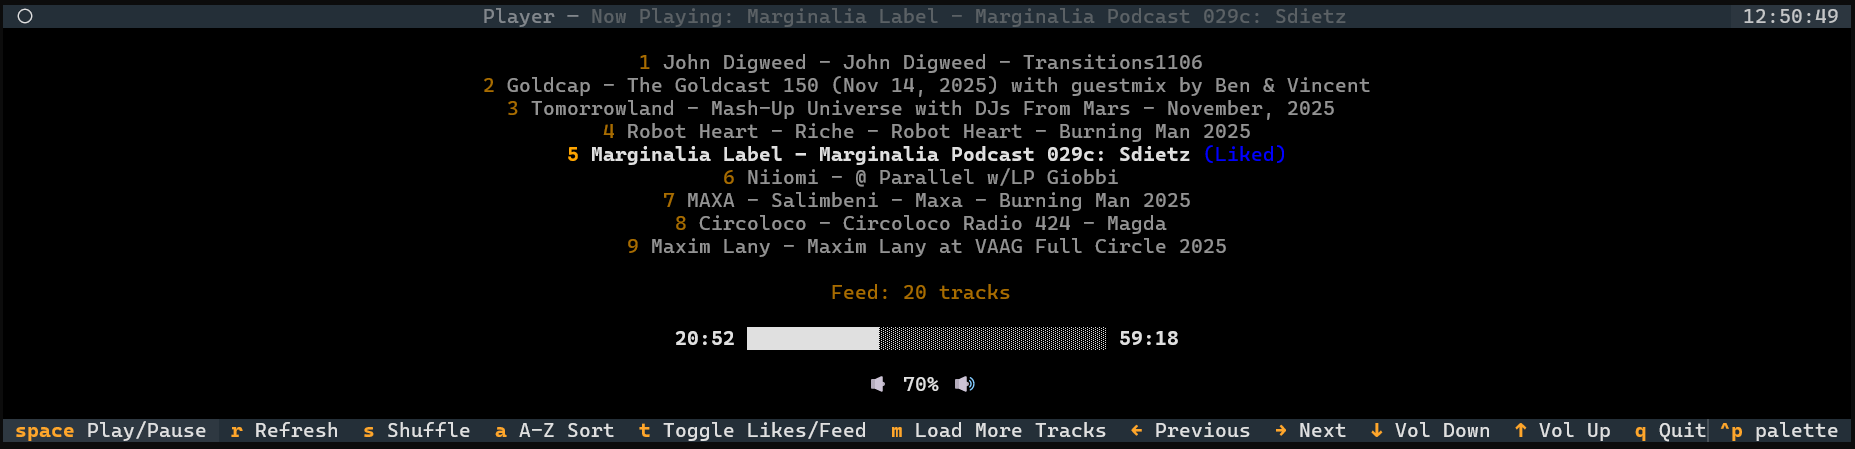
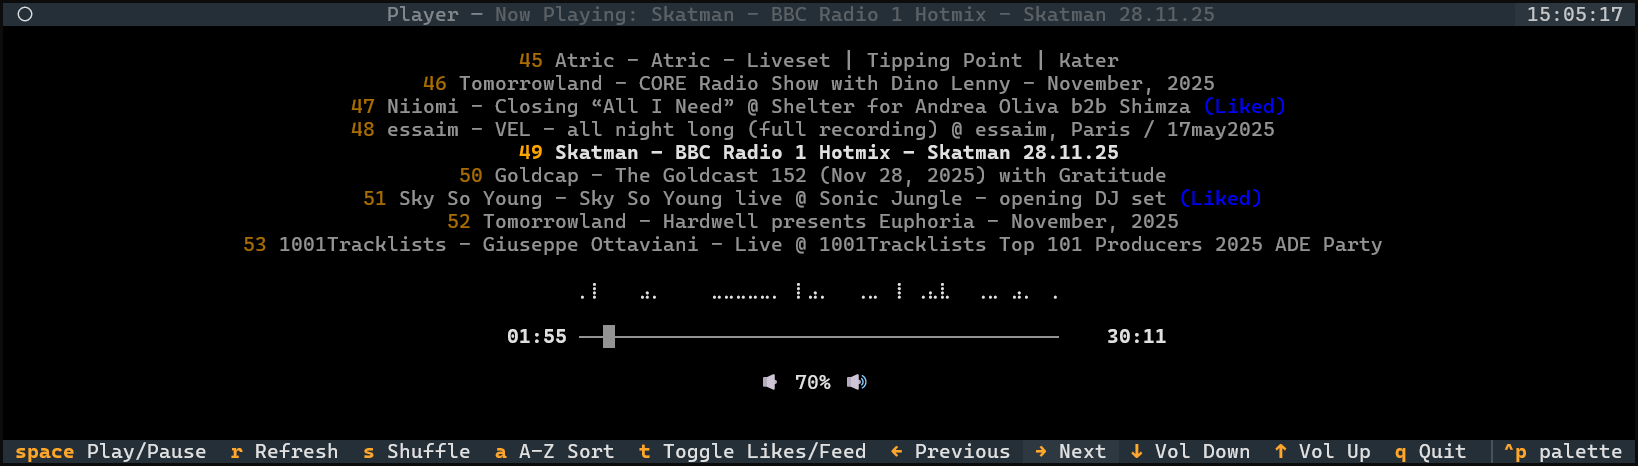
feat: command for organising offline library

diff --git a/src/soundcloud_player/organise.py b/src/soundcloud_player/organise.py
@@ -1,0 +1,128 @@
+import argparse
+from dataclasses import dataclass
+from pathlib import Path
+
+import yaml
+from mutagen.easyid3 import EasyID3
+from mutagen.mp3 import MP3
+from rich import print
+from rich.console import Console
+from rich.progress import (
+    BarColumn,
+    Progress,
+    TaskProgressColumn,
+    TextColumn,
+    TimeElapsedColumn,
+)
+from rich.table import Table
+from thefuzz import fuzz  # type: ignore
+from unidecode import unidecode
+
+from soundcloud_player.config_manager import ConfigManager
+from soundcloud_player.soundcloud_client import SoundCloudClient
+
+SIM_LIMIT = 90
+COLOURS = ["#D35400", "#E67E22", "#F39C12", "#F1C40F", "#2ECC71"]
+
+
+@dataclass
+class TrackGroup:
+    album: str
+    phrases: list[str]
+
+
+@dataclass
+class MatchResult:
+    phrase: str | None
+    similarity: float
+    album: str
+
+    def coloured_similarity(self) -> str:
+        diff = max(0.0, self.similarity - SIM_LIMIT)
+        max_diff = 100 - SIM_LIMIT
+        colour = COLOURS[int((diff * (len(COLOURS) - 1) / max_diff) // 1)]
+        return f"[{colour}]{self.similarity}[/{colour}]"
+
+
+def find_best_match(track: Path, all_configs: list[TrackGroup]) -> MatchResult:
+    filename = "_" + unidecode(track.name).lower() + "_"
+    all_matches = [
+        MatchResult(
+            phrase=p,
+            similarity=fuzz.partial_ratio("_" + p.replace(" ", "_") + "_", filename),
+            album=cfg.album,
+        )
+        for cfg in all_configs
+        for p in cfg.phrases
+    ]
+    all_matches = sorted(all_matches, key=lambda match: match.similarity, reverse=True)
+    best_match = all_matches[0]
+    if best_match.similarity < SIM_LIMIT:
+        return MatchResult(phrase=None, similarity=0, album="Unsorted")
+    return best_match
+
+
+def organise_library(
+    sc_client: SoundCloudClient, args: argparse.Namespace, cfg_manager: ConfigManager
+):
+    lib_path = cfg_manager.get_local_lib()
+    cfg_path = cfg_manager.get_classification_config()
+
+    # Load config
+    with open(cfg_path, "r") as cfg:
+        all_configs = [
+            TrackGroup(**item) for item in yaml.load_all(cfg, yaml.SafeLoader)
+        ]
+
+    # Find album for all tracks
+    results: dict[Path, MatchResult] = {
+        track: find_best_match(track, all_configs) for track in lib_path.rglob("*.mp3")
+    }
+
+    # Edit mp3 tags
+    prefix = args.prefix or ""
+    with Progress(
+        TextColumn("[white]{task.description}[/white]"),
+        BarColumn(),
+        TaskProgressColumn(text_format="[white]{task.percentage:>3.0f}%[/white]"),
+        TimeElapsedColumn(),
+    ) as progress:
+        task = progress.add_task("Applying mp3 tags", total=len(results))
+        for file, match in results.items():
+            mp3file = MP3(file, ID3=EasyID3)
+            mp3file["title"] = file.stem
+            mp3file["album"] = prefix + match.album
+            mp3file.save()
+            progress.update(task, advance=1)
+
+    # Reorganise folders
+    for old, match in results.items():
+        (lib_path / match.album).mkdir(exist_ok=True)
+        old.rename(lib_path / match.album / old.name)
+    for p in lib_path.iterdir():
+        if p.is_dir() and not list(p.iterdir()):
+            p.rmdir()
+            print(f"Removed {p}")
+
+    # Display match results
+    table = Table(title="Matched Tracks")
+    table.add_column("Album", no_wrap=True)
+    table.add_column("Matched Phrase", style="blue")
+    table.add_column("Similarity")
+    table.add_column("Filename")
+    rows = [
+        (match.album, match.phrase, match.coloured_similarity(), track.name)
+        for track, match in results.items()
+        if match.similarity
+    ]
+    for row in sorted(rows):
+        table.add_row(*row)
+    console = Console()
+    console.print(table)
+
+    # Display unsorted items
+    unsorted = [track.name for track, match in results.items() if not match.similarity]
+    if unsorted:
+        n_disp = min(len(unsorted), 20)
+        print(f"\nFirst {n_disp} of {len(unsorted)} unsorted tracks:")
+        print("\n".join(unsorted[:n_disp]))

diff --git a/src/soundcloud_player/config_manager.py b/src/soundcloud_player/config_manager.py
@@ -37,9 +37,10 @@ class ConfigManager:
                 return self.settings[key]
             resp = input(
                 f"Parameter '{key}' is already populated with value"
-                f" '{self.settings[key]}', do you want to overwrite it? [no]"
+                f" '{self.settings[key]}', do you want to overwrite it? Only 'yes' is"
+                " accepted [no]"
             )
-            if not resp or resp == "no":
+            if resp != "yes":
                 print(f"Leaving '{key}' untouched")
                 return self.settings[key]
         self.settings[key] = input(prompt + " ")
@@ -68,3 +69,15 @@ class ConfigManager:
             self.settings.pop(param)
             local_lib = Path(self.get(param, prompt))
         return local_lib
+
+    def get_classification_config(self) -> Path:
+        param = "classification-cfg"
+        prompt = (
+            "Please provide the location of your library classification config yml:"
+        )
+        class_cfg = Path(self.get(param, prompt))
+        while not class_cfg.exists():
+            print(f"File '{class_cfg}' does not exist")
+            self.settings.pop(param)
+            class_cfg = Path(self.get(param, prompt))
+        return class_cfg

diff --git a/src/soundcloud_player/main.py b/src/soundcloud_player/main.py
@@ -2,6 +2,7 @@ import argparse
 
 from soundcloud_player.config_manager import ConfigManager
 from soundcloud_player.download import download_likes
+from soundcloud_player.organise import organise_library
 from soundcloud_player.player import Player
 from soundcloud_player.soundcloud_client import SoundCloudClient
 
@@ -27,6 +28,10 @@ def create_parser():
 
     parser_download = subparsers.add_parser("download")
     parser_download.set_defaults(func=download_likes)
+
+    parser_organise = subparsers.add_parser("organise")
+    parser_organise.set_defaults(func=organise_library)
+    parser_organise.add_argument("--prefix", "-p", help="Album prefix", type=str)
     return parser
 
 

diff --git a/README.md b/README.md
@@ -4,9 +4,13 @@
 
 ## The Problem
 
-You follow a bunch of DJs and radio shows on SoundCloud who post incredible 2-hour mixes. You also follow people who post 90-second edits of cartoon sound effects. Your feed is chaos.
+You follow a bunch of DJs and radio shows on SoundCloud who post incredible 2-hour
+mixes. You also follow people who post 90-second edits of cartoon sound effects. Your
+feed is chaos.
 
-The official SoundCloud player can't filter by track length, requires keeping a browser tab open, and gets in the way when you just want to vibe to long-form mixes while you get some work done.
+The official SoundCloud player can't filter by track length, requires keeping a browser
+tab open, and gets in the way when you just want to vibe to long-form mixes while you
+get some work done.
 
 ## My Solution - Maybe Also Yours?
 
@@ -31,6 +35,7 @@ scplay start                         # Start with default 30min filter
 scplay start --min-track-length 60   # Only tracks 60+ minutes
 scplay start --reset-config          # Re-enter your OAuth token (basically never needed)
 scplay download                      # Download all your liked tracks for offline use (the player doesn't use them yet)
+scplay organise                      # Organise your offline library into folders/albums based on a config (see configs/)
 ```
 
 ## Controls
@@ -47,7 +52,9 @@ scplay download                      # Download all your liked tracks for offlin
 
 ## Setup
 
-You'll need a SoundCloud OAuth token. On first run, you'll be prompted to enter it. Get it from your browser's dev tools while logged into SoundCloud (check the Network tab for any API request and look for the `Authorization` header).
+You'll need a SoundCloud OAuth token. On first run, you'll be prompted to enter it. Get
+it from your browser's dev tools while logged into SoundCloud (check the Network tab for
+any API request and look for the `Authorization` header).
 
 ## Requirements
 
@@ -60,6 +67,5 @@ MIT
 
 ## TODO - Maybe Tomorrow, Maybe Never
 
-- Like/unlike tracks using `l`
 - Allow seeking tracks
 - Use downloaded tracks to prevent unnecessary network traffic